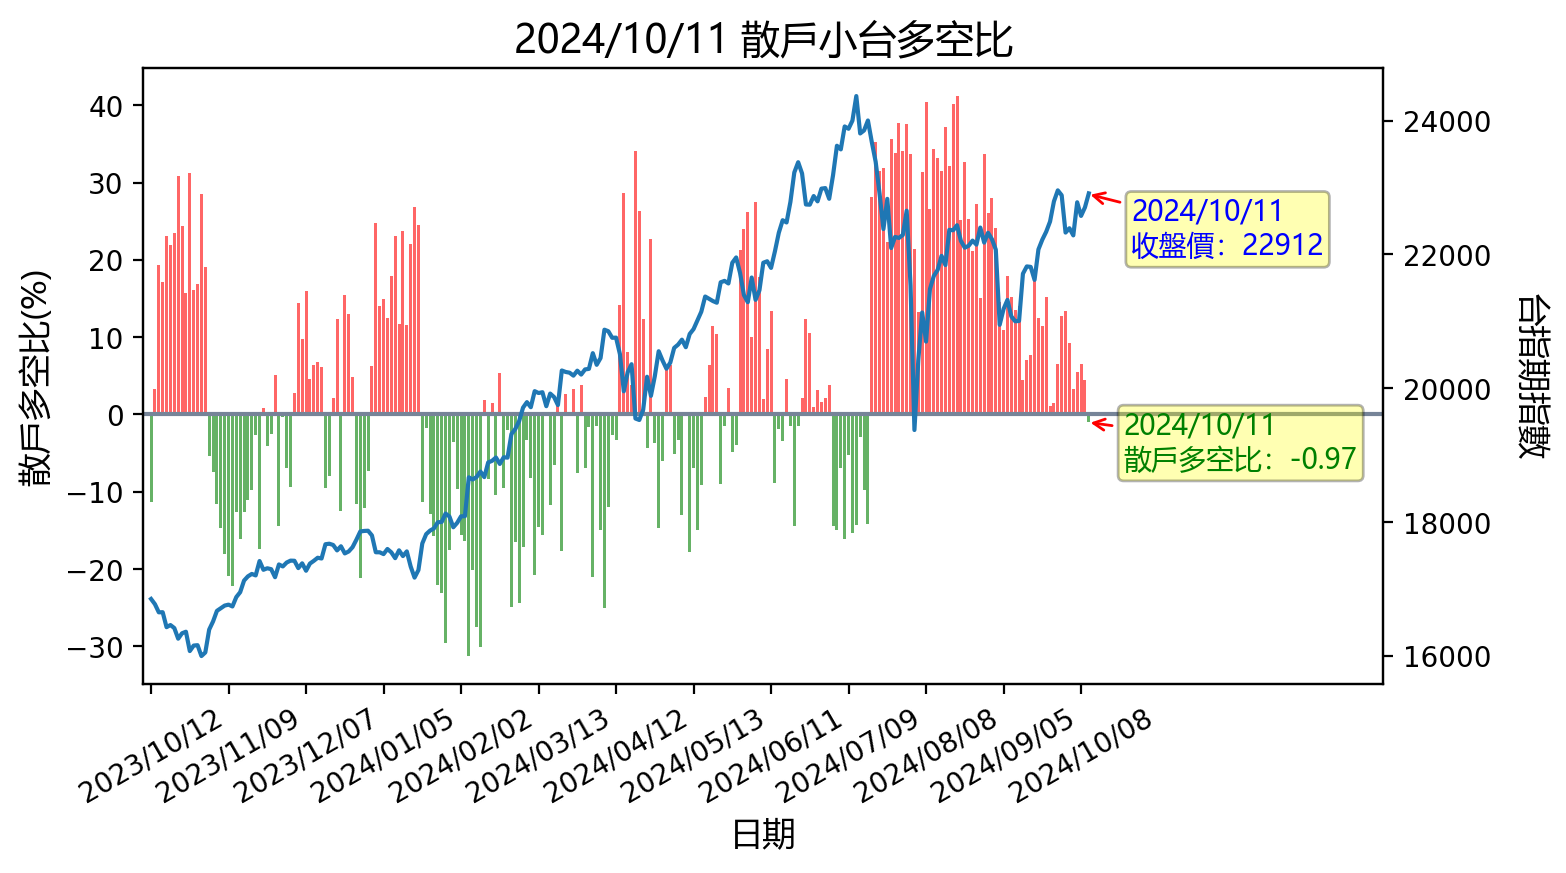
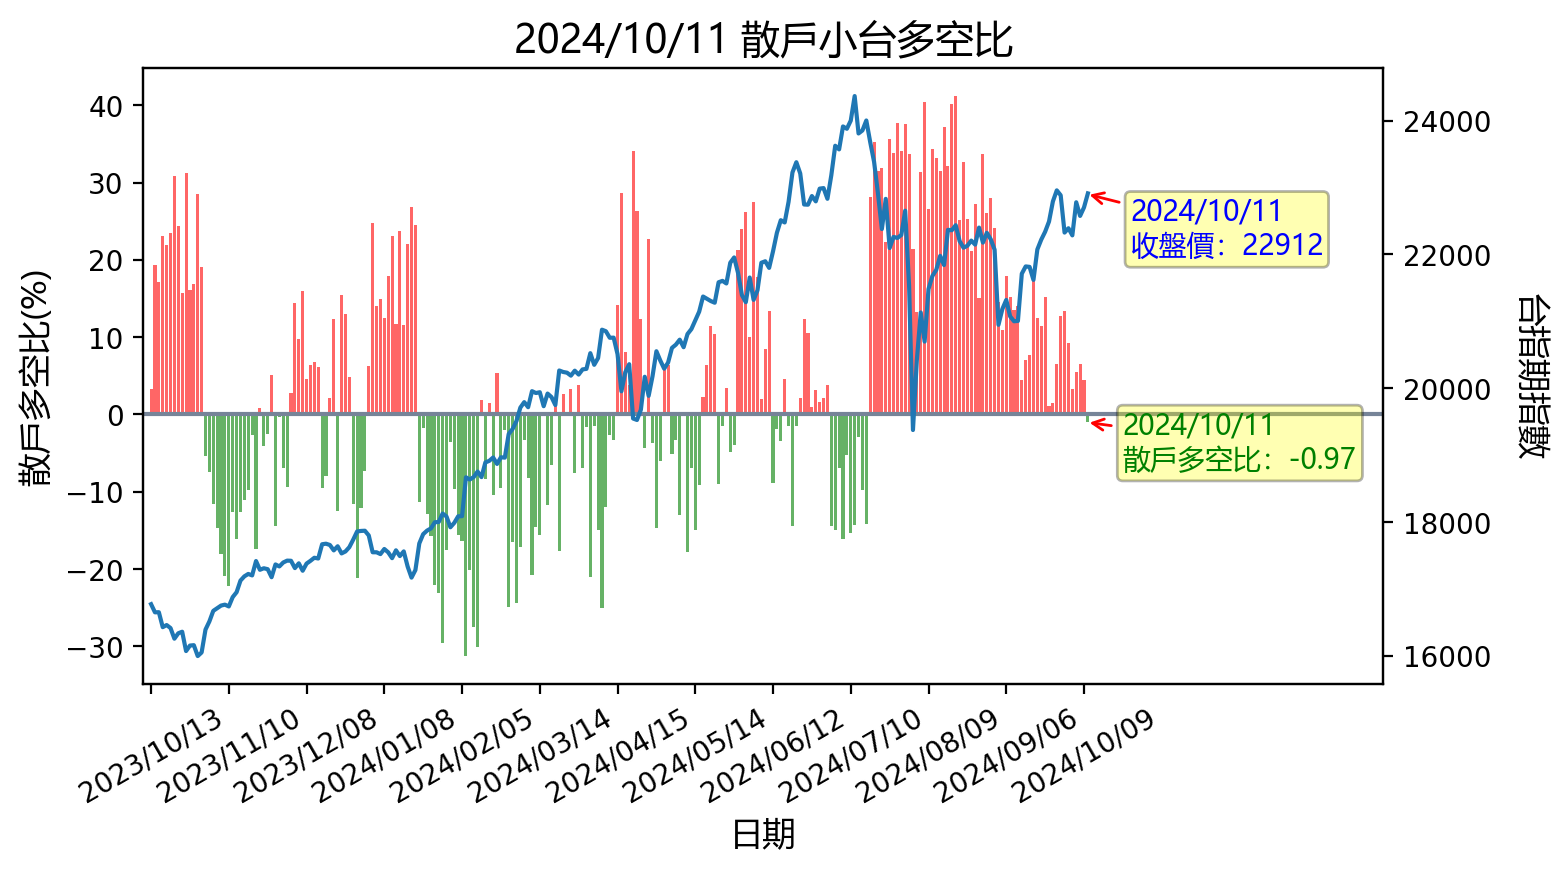
更新時間: Sun Oct 13 16:33:38 CST 2024

diff --git a/README.md b/README.md
@@ -1,12 +1,12 @@
-## 20241012 台指期「預估換倉成本」
+## 20241013 台指期「預估換倉成本」
 ![](images/txfcost.png)
 
-## 20241012 台指期「散戶小台多空比」
+## 20241013 台指期「散戶小台多空比」
 ![](images/bbiri.png)
 
-## 20241012 台指選擇權「Put/Call Ratios」
+## 20241013 台指選擇權「Put/Call Ratios」
 ![](images/pcratio.png)
 
-## 20241012 台指期「大額交易人」
+## 20241013 台指期「大額交易人」
 ![](images/blocktrade.png)
 
